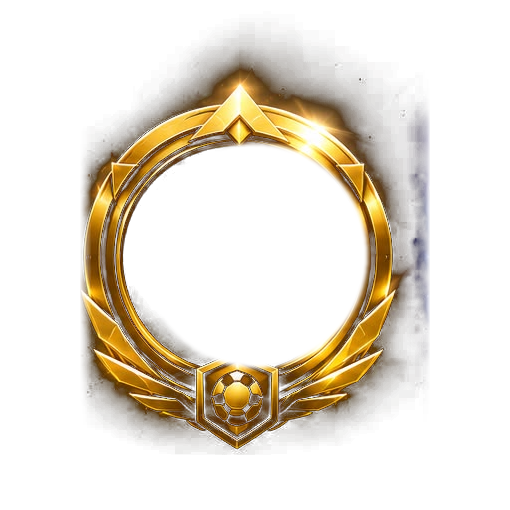
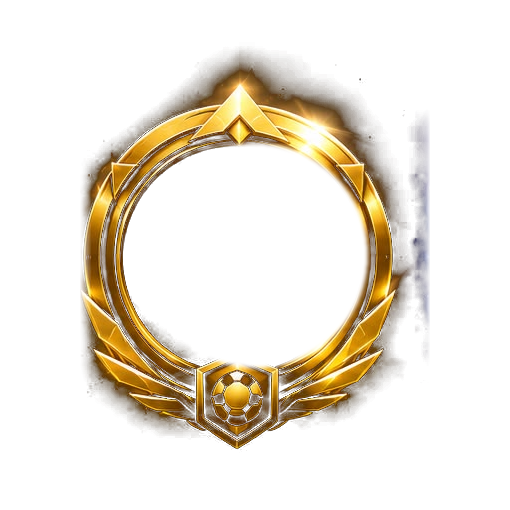
feat: çerçeve açılışına efsanevi kutlama (Clash Royale tarzı)
- FrameUnlockCelebration: karanlık sahne → büyüyen ışıma → beyaz parlama →
  çerçeve yaylanarak iner; şok halkası, 12 kıvılcım, arkada ağır dönen
  kademe renkli ışık huzmeleri, kademe adı damgası, gecikmeli Devam butonu
- Zincir: seviye popup → ÇERÇEVE KUTLAMASI → elmas uçuşu → arena → XP yağmuru
  (elmaslar kutlama boyunca tutulur, sayaç erken oynamaz)
- Çerçeve PNG'leri: gürültü tabanı 24'e çekildi + ışıltıya halka merkezli
  radyal feather — koyu sahnede kare iz yok; konteyner gölgesi kaldırıldı
  (web'de dikdörtgen box-shadow izi bırakıyordu)
- Gümüş/altın/elmas/GOAT kademeleriyle canlı E2E doğrulandı

diff --git a/app/src/screens.tsx b/app/src/screens.tsx
@@ -9328,6 +9328,130 @@ export function FramePreviewModal({ tier, unlocked, visible, onClose }: {
   );
 }
 
+// ---- FrameUnlockCelebration — çerçeve açılışı: efsanevi kutlama ----
+// Clash Royale sandık açılışı duygusu: karanlık sahne → büyüyen ışıma →
+// beyaz parlama → çerçeve yaylanarak iner; şok halkası + kıvılcım patlaması,
+// arkada ağır dönen ışık huzmeleri; kademe adı damgalanır.
+export function FrameUnlockCelebration({ tierKey, onDone }: { tierKey: string; onDone: () => void }) {
+  const tier = LEVEL_TIERS.find((tr) => tr.key === tierKey) ?? LEVEL_TIERS[0]!;
+  const glow = useRef(new Animated.Value(0)).current;    // sahneyi ısıtan ışıma
+  const flash = useRef(new Animated.Value(0)).current;   // patlama anı beyazı
+  const frameIn = useRef(new Animated.Value(0)).current; // çerçeve girişi
+  const rays = useRef(new Animated.Value(0)).current;    // huzme dönüşü
+  const raysO = useRef(new Animated.Value(0)).current;
+  const ring = useRef(new Animated.Value(0)).current;    // şok halkası
+  const titleIn = useRef(new Animated.Value(0)).current;
+  const btnIn = useRef(new Animated.Value(0)).current;
+  const [btnReady, setBtnReady] = useState(false); // görünmeden tıklanamasın
+  const sparks = useRef(Array.from({ length: 12 }, () => new Animated.Value(0))).current;
+  const sparkDirs = useRef(Array.from({ length: 12 }, (_, i) => {
+    const a = (Math.PI * 2 * i) / 12 + (i % 2 ? 0.26 : 0);
+    const r = 120 + (i % 3) * 36;
+    return { x: Math.cos(a) * r, y: Math.sin(a) * r };
+  })).current;
+  useEffect(() => {
+    Animated.loop(Animated.timing(rays, { toValue: 1, duration: 14000, easing: Easing.linear, useNativeDriver: true })).start();
+    Animated.sequence([
+      Animated.timing(glow, { toValue: 1, duration: 620, easing: Easing.in(Easing.quad), useNativeDriver: true }),
+      Animated.parallel([
+        Animated.timing(flash, { toValue: 1, duration: 90, useNativeDriver: true }),
+        Animated.timing(raysO, { toValue: 1, duration: 240, useNativeDriver: true }),
+        Animated.timing(ring, { toValue: 1, duration: 640, easing: Easing.out(Easing.cubic), useNativeDriver: true }),
+        Animated.spring(frameIn, { toValue: 1, friction: 5, tension: 46, useNativeDriver: true }),
+        ...sparks.map((s, i) => Animated.sequence([
+          Animated.delay(40 + (i % 4) * 45),
+          Animated.timing(s, { toValue: 1, duration: 720, easing: Easing.out(Easing.cubic), useNativeDriver: true }),
+        ])),
+      ]),
+    ]).start();
+    Animated.sequence([Animated.delay(760), Animated.timing(flash, { toValue: 0, duration: 300, useNativeDriver: true })]).start();
+    Animated.sequence([Animated.delay(900), Animated.spring(titleIn, { toValue: 1, friction: 6, tension: 120, useNativeDriver: true })]).start();
+    const btnTimer = setTimeout(() => {
+      setBtnReady(true);
+      Animated.timing(btnIn, { toValue: 1, duration: 240, useNativeDriver: true }).start();
+    }, 1500);
+    return () => clearTimeout(btnTimer);
+    // eslint-disable-next-line react-hooks/exhaustive-deps
+  }, []);
+  const spin = rays.interpolate({ inputRange: [0, 1], outputRange: ['0deg', '360deg'] });
+  const big = Math.min(SCREEN_W * 0.72, 300);
+  return (
+    <Modal visible transparent animationType="fade" statusBarTranslucent>
+      <View style={[StyleSheet.absoluteFill, { backgroundColor: 'rgba(4,7,18,0.94)', alignItems: 'center', justifyContent: 'center' }]}>
+        {/* ağır dönen ışık huzmeleri */}
+        <Animated.View pointerEvents="none" style={{ position: 'absolute', opacity: raysO.interpolate({ inputRange: [0, 1], outputRange: [0, 0.9] }), transform: [{ rotate: spin }] }}>
+          <Svg width={SCREEN_W * 1.3} height={SCREEN_W * 1.3} viewBox="-100 -100 200 200">
+            {Array.from({ length: 12 }, (_, i) => (
+              <Polygon key={i} points="0,0 -4.5,-100 4.5,-100" fill={tier.c} opacity={i % 2 ? 0.07 : 0.15} transform={`rotate(${i * 30})`} />
+            ))}
+          </Svg>
+        </Animated.View>
+        {/* merkez ışıma */}
+        <Animated.View pointerEvents="none" style={{ position: 'absolute', opacity: glow }}>
+          <Svg width={360} height={360}>
+            <Defs>
+              <RadialGradient id={`fglow-${tier.key}`} cx="50%" cy="50%" r="50%">
+                <Stop offset="0%" stopColor={tier.c} stopOpacity={0.55} />
+                <Stop offset="60%" stopColor={tier.c} stopOpacity={0.18} />
+                <Stop offset="100%" stopColor={tier.c} stopOpacity={0} />
+              </RadialGradient>
+            </Defs>
+            <Circle cx={180} cy={180} r={180} fill={`url(#fglow-${tier.key})`} />
+          </Svg>
+        </Animated.View>
+        {/* şok halkası */}
+        <Animated.View pointerEvents="none" style={{
+          position: 'absolute', width: big, height: big, borderRadius: big / 2,
+          borderWidth: 3, borderColor: lighten(tier.c, 0.35),
+          opacity: ring.interpolate({ inputRange: [0, 0.15, 1], outputRange: [0, 0.9, 0] }),
+          transform: [{ scale: ring.interpolate({ inputRange: [0, 1], outputRange: [0.35, 2.1] }) }],
+        }} />
+        {/* kıvılcımlar */}
+        {sparks.map((s, i) => (
+          <Animated.View key={i} pointerEvents="none" style={{
+            position: 'absolute', width: i % 3 ? 7 : 10, height: i % 3 ? 7 : 10, borderRadius: 6,
+            backgroundColor: i % 2 ? '#FFFFFF' : lighten(tier.c, 0.25),
+            opacity: s.interpolate({ inputRange: [0, 0.12, 0.75, 1], outputRange: [0, 1, 0.9, 0] }),
+            transform: [
+              { translateX: s.interpolate({ inputRange: [0, 1], outputRange: [0, sparkDirs[i]!.x] }) },
+              { translateY: s.interpolate({ inputRange: [0, 1], outputRange: [0, sparkDirs[i]!.y + 26] }) },
+              { scale: s.interpolate({ inputRange: [0, 0.15, 1], outputRange: [0.3, 1.15, 0.4] }) },
+            ],
+          }} />
+        ))}
+        {/* çerçeve — yaylanarak iner (gölge YOK: kare box-shadow izi bırakır,
+             ışıma radyal Svg + görselin kendi parlaklığından gelir) */}
+        <Animated.View style={{
+          opacity: frameIn,
+          transform: [{ scale: frameIn.interpolate({ inputRange: [0, 1], outputRange: [0.18, 1] }) }],
+        }}>
+          <FrameArt tierKey={tier.key} size={big} />
+        </Animated.View>
+        {/* patlama beyazı — en üstte */}
+        <Animated.View pointerEvents="none" style={[StyleSheet.absoluteFill, { backgroundColor: '#FFFFFF', opacity: flash.interpolate({ inputRange: [0, 1], outputRange: [0, 0.85] }) }]} />
+        {/* kademe adı damgası */}
+        <Animated.View style={{
+          position: 'absolute', bottom: '20%', left: 0, right: 0, alignItems: 'center',
+          opacity: titleIn, transform: [{ scale: titleIn.interpolate({ inputRange: [0, 1], outputRange: [1.6, 1] }) }],
+        }}>
+          <Text style={{ color: tier.c, fontSize: 30, fontFamily: 'Poppins-Black', letterSpacing: 1.6, ...engrave('lg') }}>
+            {t(tier.nameKey).toLocaleUpperCase(currentLang())}
+          </Text>
+          <Text style={{ color: theme.text, fontSize: 15.5, fontFamily: 'Poppins-ExtraBold', marginTop: 2, letterSpacing: 3.2, ...engrave('sm') }}>
+            {t('level.frameCelebUnlocked')}
+          </Text>
+        </Animated.View>
+        {/* devam — zamanı gelince render edilir (görünmez buton tık yemesin) */}
+        {btnReady ? (
+          <Animated.View style={{ position: 'absolute', bottom: 60, left: 40, right: 40, opacity: btnIn }}>
+            <Btn big kind="primary" label={t('common.continue')} onPress={onDone} />
+          </Animated.View>
+        ) : null}
+      </View>
+    </Modal>
+  );
+}
+
 // Seviye rozeti — kademe renkli çift halka içinde kazınmış numara.
 // 10+ seviyelerde halka kademe rengini alır; GOAT hafif ışıma taşır.
 export function LevelBadge({ level, size = 24 }: { level: number; size?: number }) {

diff --git a/app/App.tsx b/app/App.tsx
@@ -52,6 +52,8 @@ import {
   MatchOverBanner,
   LevelUpPopup,
   GemOrbFly,
+  FrameUnlockCelebration,
+  levelTier,
   LevelRoadModal,
   Btn,
   MODE_LABEL,
@@ -510,7 +512,7 @@ function AppRoot() {
   }, [state.matchOver, state.trophyDelta, state.room, state.matchWinnerId, state.matchWinnerName]);
   // Rövanş/yeni maç başlarsa bekleyen popup düşer (bayat maçın popup'ı gösterilmez).
   useEffect(() => {
-    if (state.phase === 'countdown' || state.phase === 'matchup' || state.phase === 'pick') { setMatchOverPopup(null); setPendingLevelUp(null); setLevelGemFly(null); heldArena.current = null; }
+    if (state.phase === 'countdown' || state.phase === 'matchup' || state.phase === 'pick') { setMatchOverPopup(null); setPendingLevelUp(null); setLevelGemFly(null); setPendingFrameUnlock(null); heldGems.current = 0; heldArena.current = null; }
   }, [state.phase]);
   // ---- Seviye atlama zinciri: kupa popup'ı → seviye popup'ı → arena kutlaması ----
   const [pendingLevelUp, setPendingLevelUp] = useState<null | { toLevel: number; diamonds: number; emoteIds: string[] }>(null);
@@ -518,6 +520,11 @@ function AppRoot() {
   pendingLevelUpRef.current = pendingLevelUp;
   // Seviye ödülü elmasları: popup kapanınca ekranda belirip elmas hapına uçar
   const [levelGemFly, setLevelGemFly] = useState<number | null>(null);
+  // Çerçeve açılışı (10'un katı seviye): seviye popup'ından sonra efsanevi kutlama
+  const [pendingFrameUnlock, setPendingFrameUnlock] = useState<string | null>(null);
+  const pendingFrameUnlockRef = useRef(pendingFrameUnlock);
+  pendingFrameUnlockRef.current = pendingFrameUnlock;
+  const heldGems = useRef(0); // çerçeve kutlaması bitene dek bekleyen elmas uçuşu
   const heldArena = useRef<{ amount: number; arenaName: string } | null>(null);
   useEffect(() => {
     const lu = state.xpGain?.leveledUp;
@@ -527,6 +534,9 @@ function AppRoot() {
       diamonds: lu.reduce((sum, l) => sum + l.diamonds, 0),
       emoteIds: lu.map((l) => l.emoteId).filter((e): e is string => Boolean(e)),
     });
+    // 10'un katına ulaşıldıysa o kademenin çerçevesi açıldı — kutlaması kuyruğa
+    const frameLevel = lu.filter((l) => l.level % 10 === 0).pop();
+    if (frameLevel) setPendingFrameUnlock(levelTier(frameLevel.level)?.key ?? null);
   }, [state.xpGain]);
   const releaseHeldArena = useCallback(() => {
     if (heldArena.current) {
@@ -538,12 +548,24 @@ function AppRoot() {
   const dismissLevelUp = useCallback(() => {
     const gems = pendingLevelUpRef.current?.diamonds ?? 0;
     setPendingLevelUp(null);
+    if (pendingFrameUnlockRef.current) {
+      // önce çerçeve kutlaması — elmas uçuşu onun kapanışında (dismissFrameUnlock)
+      heldGems.current = gems;
+      return;
+    }
     if (gems > 0) {
       // elmaslar hapa uçsun; arena kutlaması uçuş bitince (handleLevelGemFlyDone)
       setLevelGemFly(gems);
     } else {
       releaseHeldArena();
     }
+  }, [releaseHeldArena]);
+  const dismissFrameUnlock = useCallback(() => {
+    setPendingFrameUnlock(null);
+    const gems = heldGems.current;
+    heldGems.current = 0;
+    if (gems > 0) setLevelGemFly(gems);
+    else releaseHeldArena();
   }, [releaseHeldArena]);
   const handleLevelGemFlyDone = useCallback(() => {
     const amount = levelGemFly ?? 0;
@@ -560,7 +582,8 @@ function AppRoot() {
     const diamonds = state.profile?.diamonds;
     if (typeof diamonds !== 'number') return;
     if (gainAnimatingRef.current) return; // sayaç dönüşü sürüyor — ezme
-    const hold = gemCelebration ? gemCelebration.amount : (levelGemFly ?? (pendingLevelUp?.diamonds || 0));
+    const hold = gemCelebration ? gemCelebration.amount
+      : (levelGemFly ?? (pendingLevelUp?.diamonds || (pendingFrameUnlock ? heldGems.current : 0)));
     if (hold > 0 || gemCelebration) {
       const before = Math.max(0, diamonds - hold);
       setDiamondDisplayInstant(before);
@@ -570,7 +593,7 @@ function AppRoot() {
       return;
     }
     setDiamondDisplayInstant(diamonds);
-  }, [state.profile?.diamonds, gemCelebration, levelGemFly, pendingLevelUp, setDiamondDisplayInstant, diamondFillAnim, measureDiamondPill]);
+  }, [state.profile?.diamonds, gemCelebration, levelGemFly, pendingLevelUp, pendingFrameUnlock, setDiamondDisplayInstant, diamondFillAnim, measureDiamondPill]);
 
   const dismissMatchOverPopup = useCallback(() => {
     setMatchOverPopup((cur) => {
@@ -861,7 +884,7 @@ function AppRoot() {
         screen = <ResultScreen {...props} />;
         break;
       default:
-        screen = <HomeScreen {...props} overlayBusy={Boolean(matchOverPopup || pendingLevelUp || levelGemFly != null || gemCelebration)} gemCountAnimOverride={diamondCountAnim} gemFillAnimOverride={diamondFillAnim} />;
+        screen = <HomeScreen {...props} overlayBusy={Boolean(matchOverPopup || pendingLevelUp || pendingFrameUnlock || levelGemFly != null || gemCelebration)} gemCountAnimOverride={diamondCountAnim} gemFillAnimOverride={diamondFillAnim} />;
     }
     return (
       <View style={[s.root, { paddingTop: insets.top }]}>
@@ -895,7 +918,7 @@ function AppRoot() {
     ? <ArenasScreen {...props} />
     : state.phase === 'profile'
     ? <ProfileScreen {...props} onOpenMatchHistory={openMatchHistory} onOpenLevelRoad={() => setLevelRoadOpen(true)} onGoToStore={(section) => { setStoreSection(section ?? null); goToTab(0); }} />
-    : <HomeScreen {...props} overlayBusy={Boolean(matchOverPopup || pendingLevelUp || levelGemFly != null || gemCelebration)} gemCountAnimOverride={diamondCountAnim} gemFillAnimOverride={diamondFillAnim} onLanguageChange={() => {
+    : <HomeScreen {...props} overlayBusy={Boolean(matchOverPopup || pendingLevelUp || pendingFrameUnlock || levelGemFly != null || gemCelebration)} gemCountAnimOverride={diamondCountAnim} gemFillAnimOverride={diamondFillAnim} onLanguageChange={() => {
         setOverlay(null);
         setStoreSection(null);
         setActiveTab(2);
@@ -1101,6 +1124,11 @@ function AppRoot() {
           emoteIds={pendingLevelUp.emoteIds}
           onClose={dismissLevelUp}
         />
+      ) : null}
+
+      {/* Çerçeve açılışı — seviye popup'ından sonra efsanevi kutlama */}
+      {pendingFrameUnlock && !pendingLevelUp && !matchOverPopup ? (
+        <FrameUnlockCelebration tierKey={pendingFrameUnlock} onDone={dismissFrameUnlock} />
       ) : null}
 
       {/* Seviye ödülü elmasları — popup kapandıktan sonra hapa uçar */}

diff --git a/app/src/i18n.ts b/app/src/i18n.ts
@@ -525,6 +525,7 @@ const tr = {
   'level.maxed': 'En yüksek seviyedesin — GOAT!',
   'level.emoteUnlocked': 'Yeni ifade koleksiyonuna eklendi',
   'level.frameUnlocked': '{name} çerçeve açıldı',
+  'level.frameCelebUnlocked': 'ÇERÇEVE AÇILDI!',
   'level.tierBronze': 'Bronz',
   'level.tierSilver': 'Gümüş',
   'level.tierGold': 'Altın',
@@ -1026,6 +1027,7 @@ const en: typeof tr = {
   'level.maxed': 'Max level — GOAT!',
   'level.emoteUnlocked': 'New emote added to your collection',
   'level.frameUnlocked': '{name} frame unlocked',
+  'level.frameCelebUnlocked': 'FRAME UNLOCKED!',
   'level.tierBronze': 'Bronze',
   'level.tierSilver': 'Silver',
   'level.tierGold': 'Gold',
